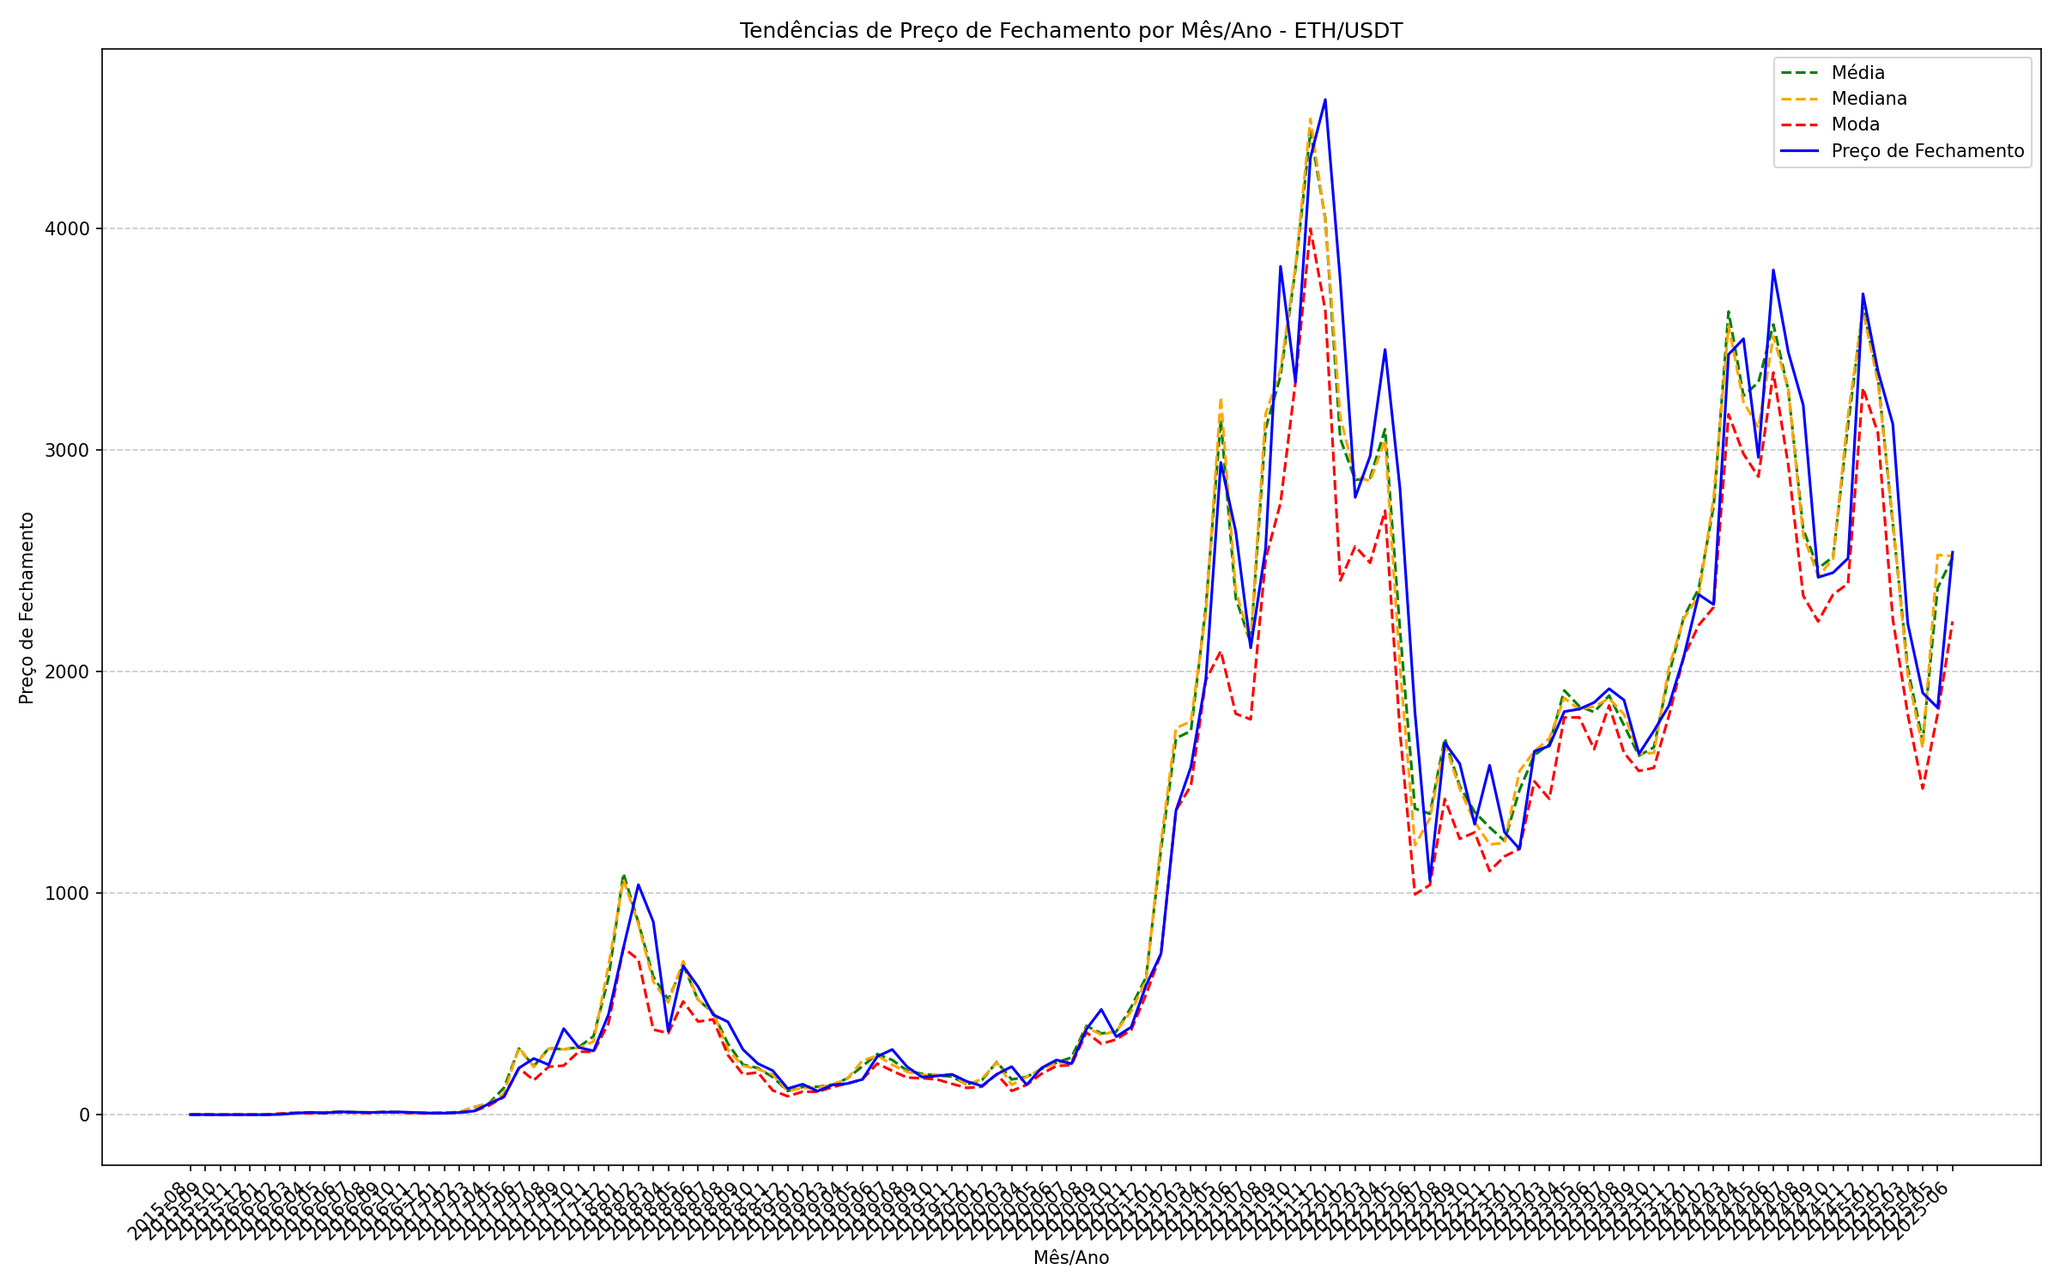
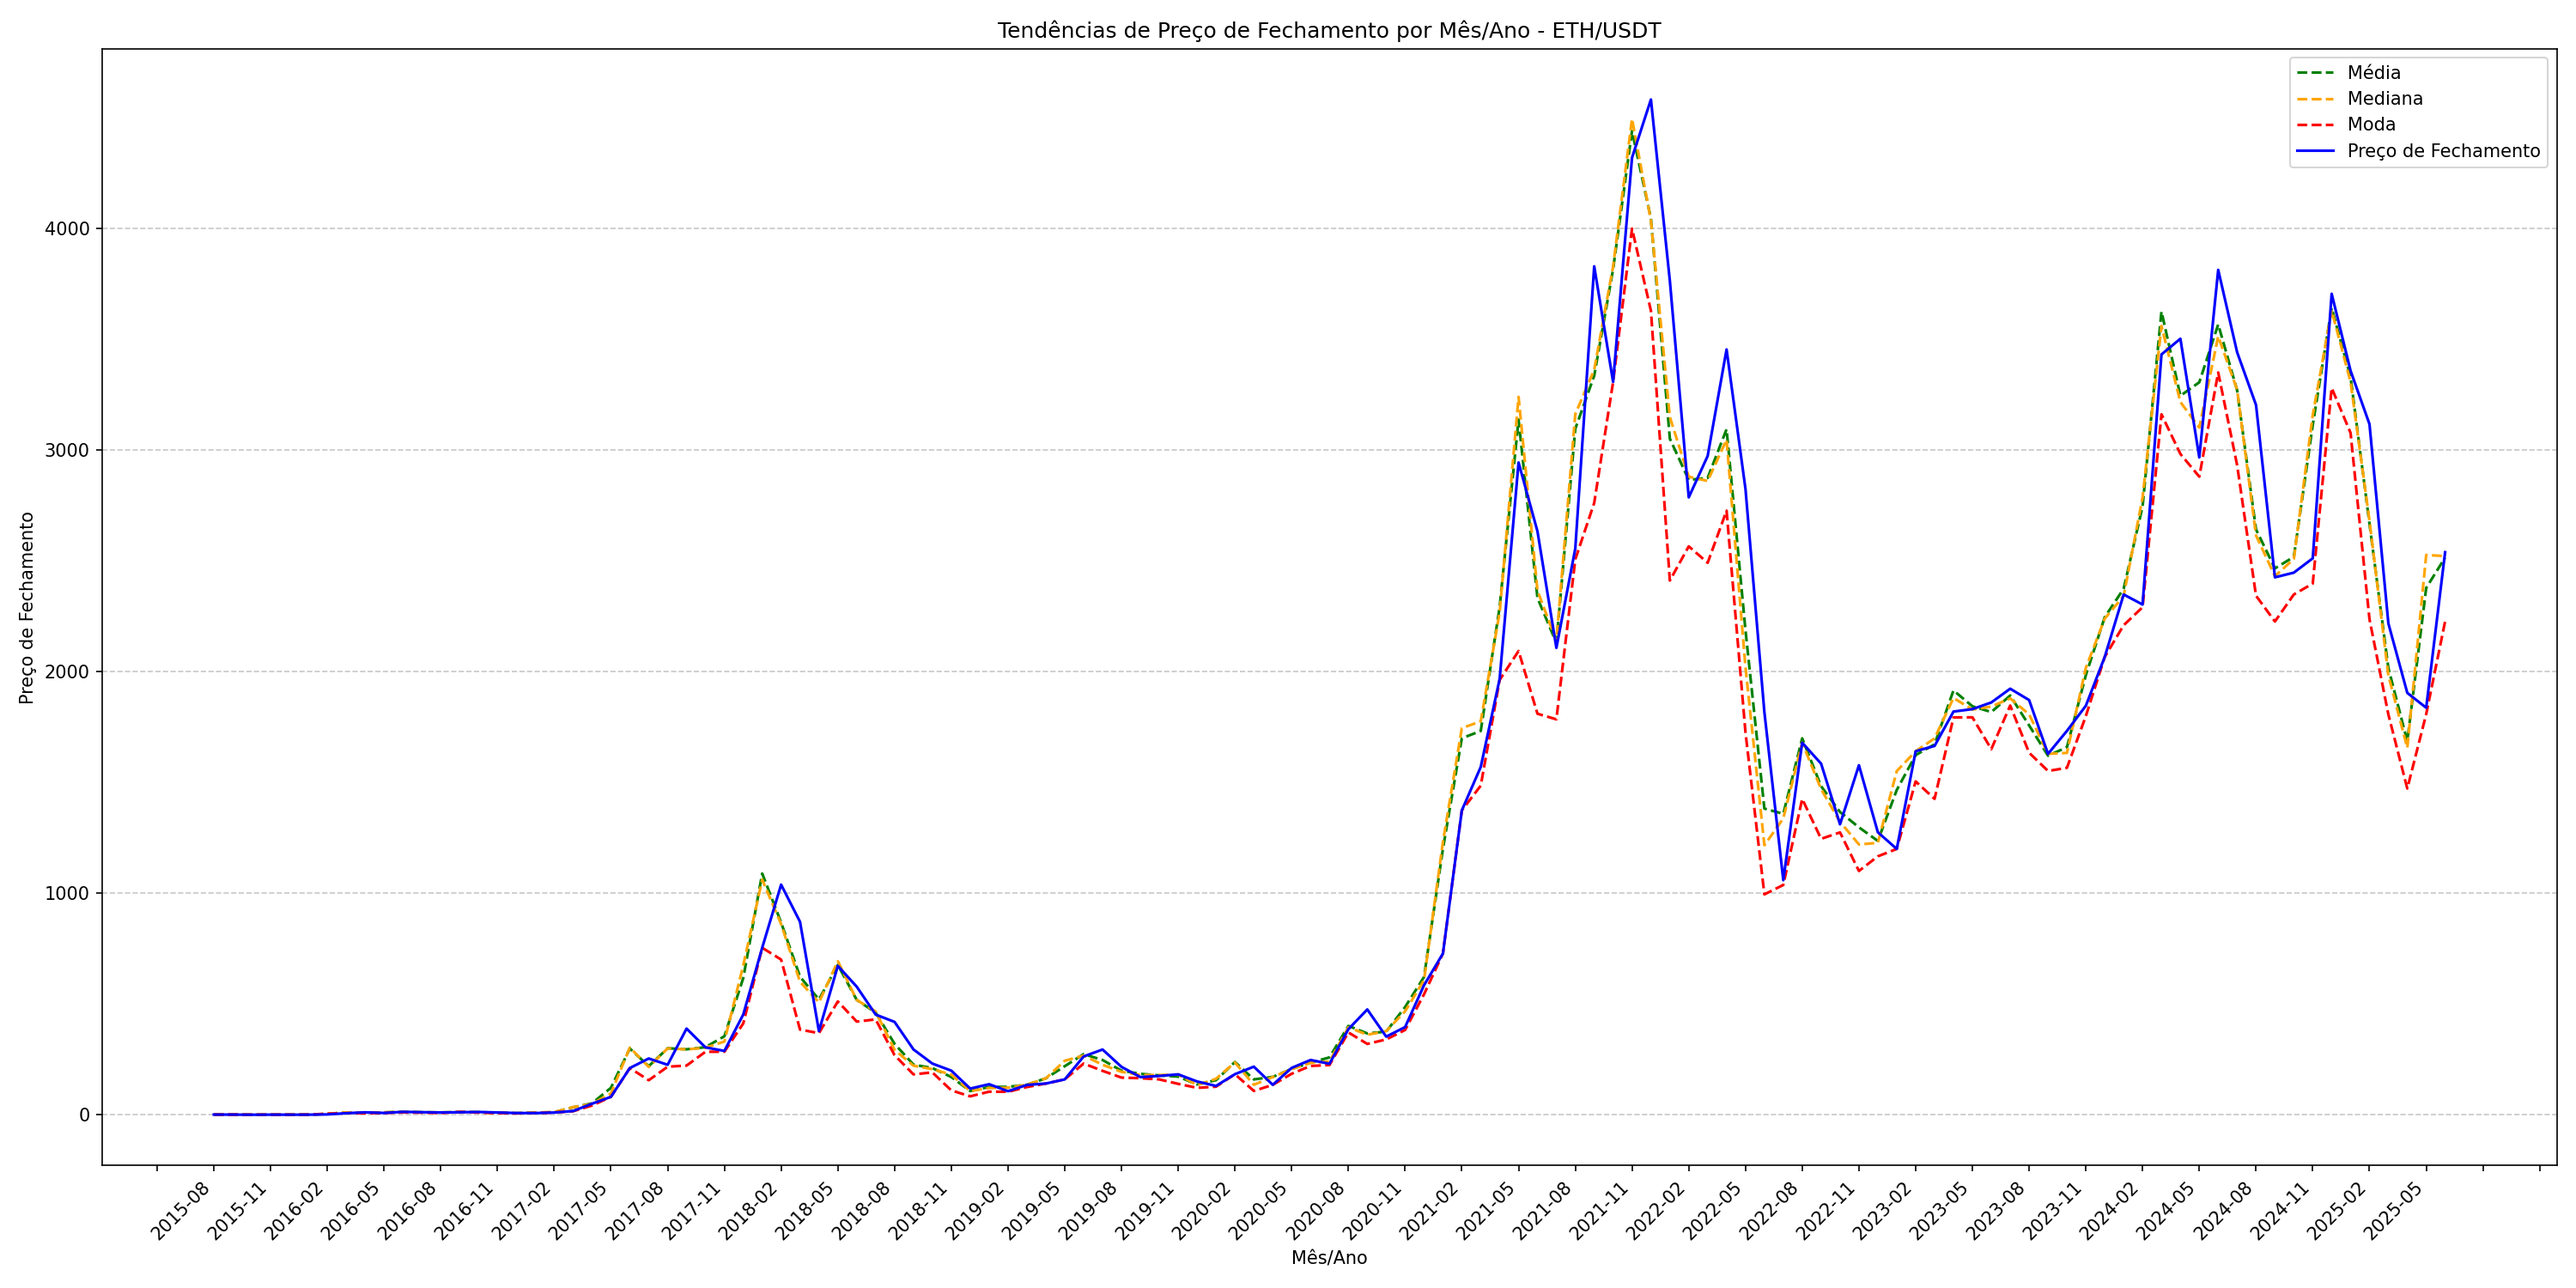
Ajustes na união em subplot do histograma e boxplot e visualização do gráfico de tendências.

diff --git a/src/plot.py b/src/plot.py
@@ -2,6 +2,7 @@ import pandas as pd
 import numpy as np
 from sklearn.base import clone
 import matplotlib.pyplot as plt
+from matplotlib.ticker import MaxNLocator
 import os
 import sys
 
@@ -134,7 +135,7 @@ def plot_investment_simulation(
 @timing
 def generate_visualizations(data: pd.DataFrame) -> None:
     """
-    Gera boxplots e histogramas dos preços de fechamento agrupados por 'symbol'.
+    Gera visualizações combinadas de histogramas e boxplots dos preços de fechamento agrupados por 'symbol'.
 
     Args:
         data (pd.DataFrame): DataFrame contendo os dados das criptomoedas.
@@ -154,29 +155,27 @@ def generate_visualizations(data: pd.DataFrame) -> None:
 
         logger.debug(f"Tamanho dos dados para {symbol}: {symbol_data.shape}")
 
-        # Boxplot
-        plt.figure(figsize=(10, 6))
-        plt.boxplot(symbol_data["close"])
-        plt.title(f"Boxplot - {symbol}")
-        plt.xlabel("Symbol")
-        plt.ylabel("Preço de Fechamento")
-
         sanitized_symbol = symbol.replace("/", "_")
-        plt.savefig(f"figures/{sanitized_symbol}_boxplot.png", dpi=150)
-        plt.close()
-        logger.info(f"Boxplot salvo para o símbolo: {symbol}")
+
+        # Subplots: Histograma à esquerda e Boxplot à direita
+        fig, axes = plt.subplots(1, 2, figsize=(14, 6))
 
         # Histograma
-        plt.figure(figsize=(10, 6))
-        plt.hist(symbol_data["close"], bins=20, alpha=0.7)
-        plt.title(f"Histograma - {symbol}")
-        plt.xlabel("Preço de Fechamento")
-        plt.ylabel("Frequência")
-        plt.savefig(f"figures/{sanitized_symbol}_histogram.png", dpi=150)
-        plt.close()
-        logger.info(f"Histograma salvo para o símbolo: {symbol}")
+        axes[0].hist(symbol_data["close"], bins=20, alpha=0.7, color="skyblue")
+        axes[0].set_title(f"Histograma - {symbol}")
+        axes[0].set_xlabel("Preço de Fechamento")
+        axes[0].set_ylabel("Frequência")
 
-        logger.debug(f"Histograma salvo para o símbolo: {symbol}")
+        # Boxplot
+        axes[1].boxplot(symbol_data["close"])
+        axes[1].set_title(f"Boxplot - {symbol}")
+        axes[1].set_xlabel("Preço de Fechamento")
+
+        # Ajusta layout e salva o gráfico
+        plt.tight_layout()
+        plt.savefig(f"figures/{sanitized_symbol}_visual_histogram_boxplot.png", dpi=150)
+        plt.close()
+        logger.info(f"Visualizações combinadas salvas para o símbolo: {symbol}")
 
 
 @timing
@@ -306,7 +305,7 @@ def plot_price_trends_by_month_year(data: pd.DataFrame) -> None:
         grouped_data.columns = ["month_year", "mean", "median", "mode", "close"]
         sanitized_symbol = symbol.replace("/", "_")
 
-        plt.figure(figsize=(16, 10))
+        plt.figure(figsize=(20, 10))
         plt.plot(
             grouped_data["month_year"].astype(str),
             grouped_data["mean"],
@@ -335,12 +334,15 @@ def plot_price_trends_by_month_year(data: pd.DataFrame) -> None:
             color="blue",
         )
 
+        ax = plt.gca()
+        ax.xaxis.set_major_locator(MaxNLocator(nbins=48))
+
         plt.title(f"Tendências de Preço de Fechamento por Mês/Ano - {symbol}")
         plt.xlabel("Mês/Ano")
         plt.ylabel("Preço de Fechamento")
         plt.legend()
-        plt.xticks(rotation=45, ha="right")
-        plt.grid(axis="y", linestyle="--", alpha=0.7)
+        plt.xticks(rotation=45, ha="right", fontsize=10)
+        plt.grid(axis="y", linestyle="--", alpha=0.7)        
         plt.tight_layout()
         plt.savefig(f"figures/{sanitized_symbol}_price_trends_month_year.png", dpi=150)
         plt.close()
